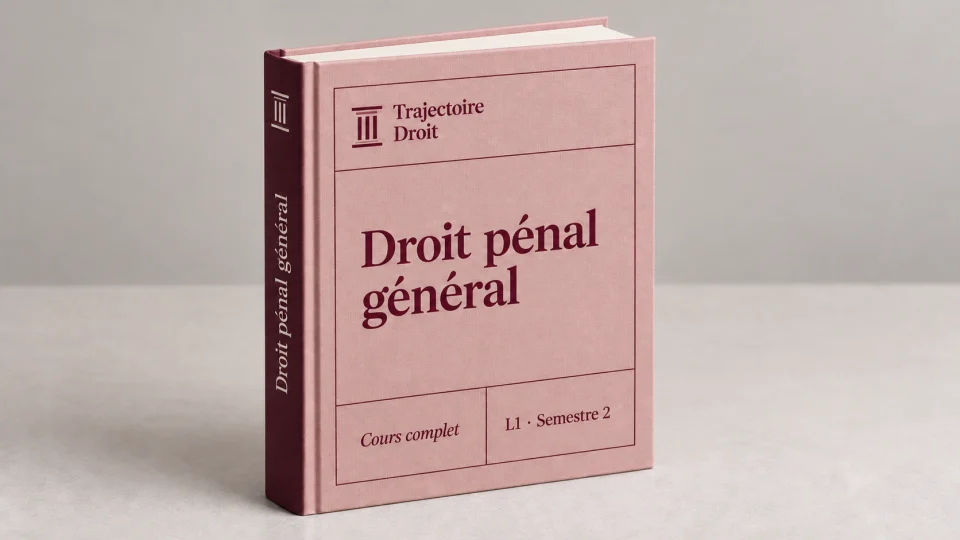
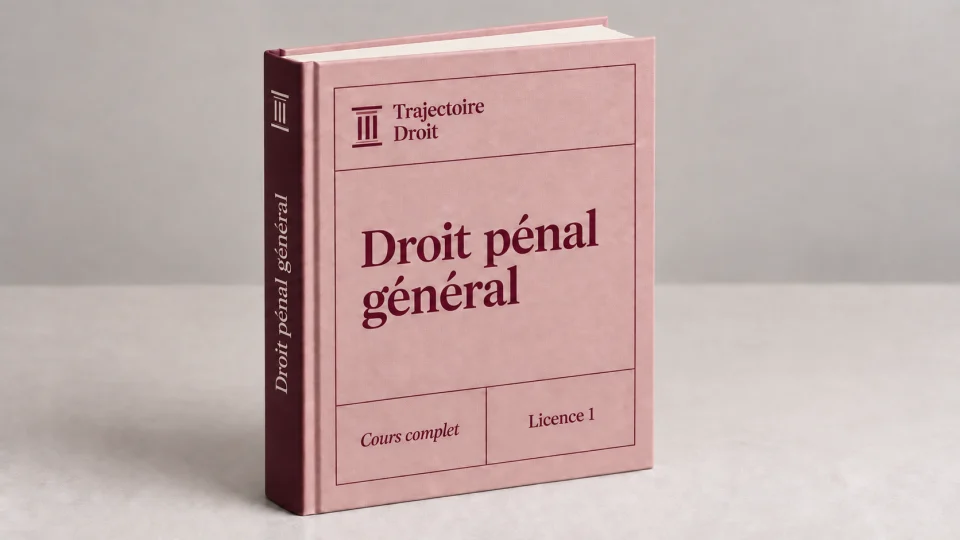
Clarifie la couverture du cours de droit pénal général

Changed region(s): [[0.5312, 0.7407, 0.625, 0.8], [0.5312, 0.4148, 0.5625, 0.4444], [0.5312, 0.1185, 0.5625, 0.1481]]

diff --git a/cours-fiches.html b/cours-fiches.html
@@ -456,10 +456,10 @@
           </article>
 
           <article class="card card--product fade-in" data-niveau="L1">
-            <div class="product__thumb has-cover"><span class="badge badge--format">Cours complet</span><img src="assets/covers/cours-fiche-penal-general-l1.webp?v=cours-2a-20260921" alt="Droit pénal général L1 semestre 2, cours complet, couverture Trajectoire Droit" loading="lazy"></div>
+            <div class="product__thumb has-cover"><span class="badge badge--format">Cours complet</span><img src="assets/covers/cours-fiche-penal-general-l1.webp?v=cours-2a-20260921b" alt="Droit pénal général L1, cours complet, couverture Trajectoire Droit" loading="lazy"></div>
             <div class="product__body">
               <h3 class="product__title">Droit pénal général</h3>
-              <div class="product__meta"><span>L1</span><span>·</span><span>Semestre 2</span><span>·</span><span>PDF · 172 p.</span></div>
+              <div class="product__meta"><span>L1</span><span>·</span><span>PDF · 172 p.</span></div>
               <p class="product__desc">Infraction, tentative, complicité, causes d'irresponsabilité.</p>
               <div><span class="product__price">19,99 €</span></div>
               <button type="button" class="btn btn--primary btn--full product__cta" data-tjd-produit="cours-fiche-penal-general-l1">Acheter · 19,99 €</button>
